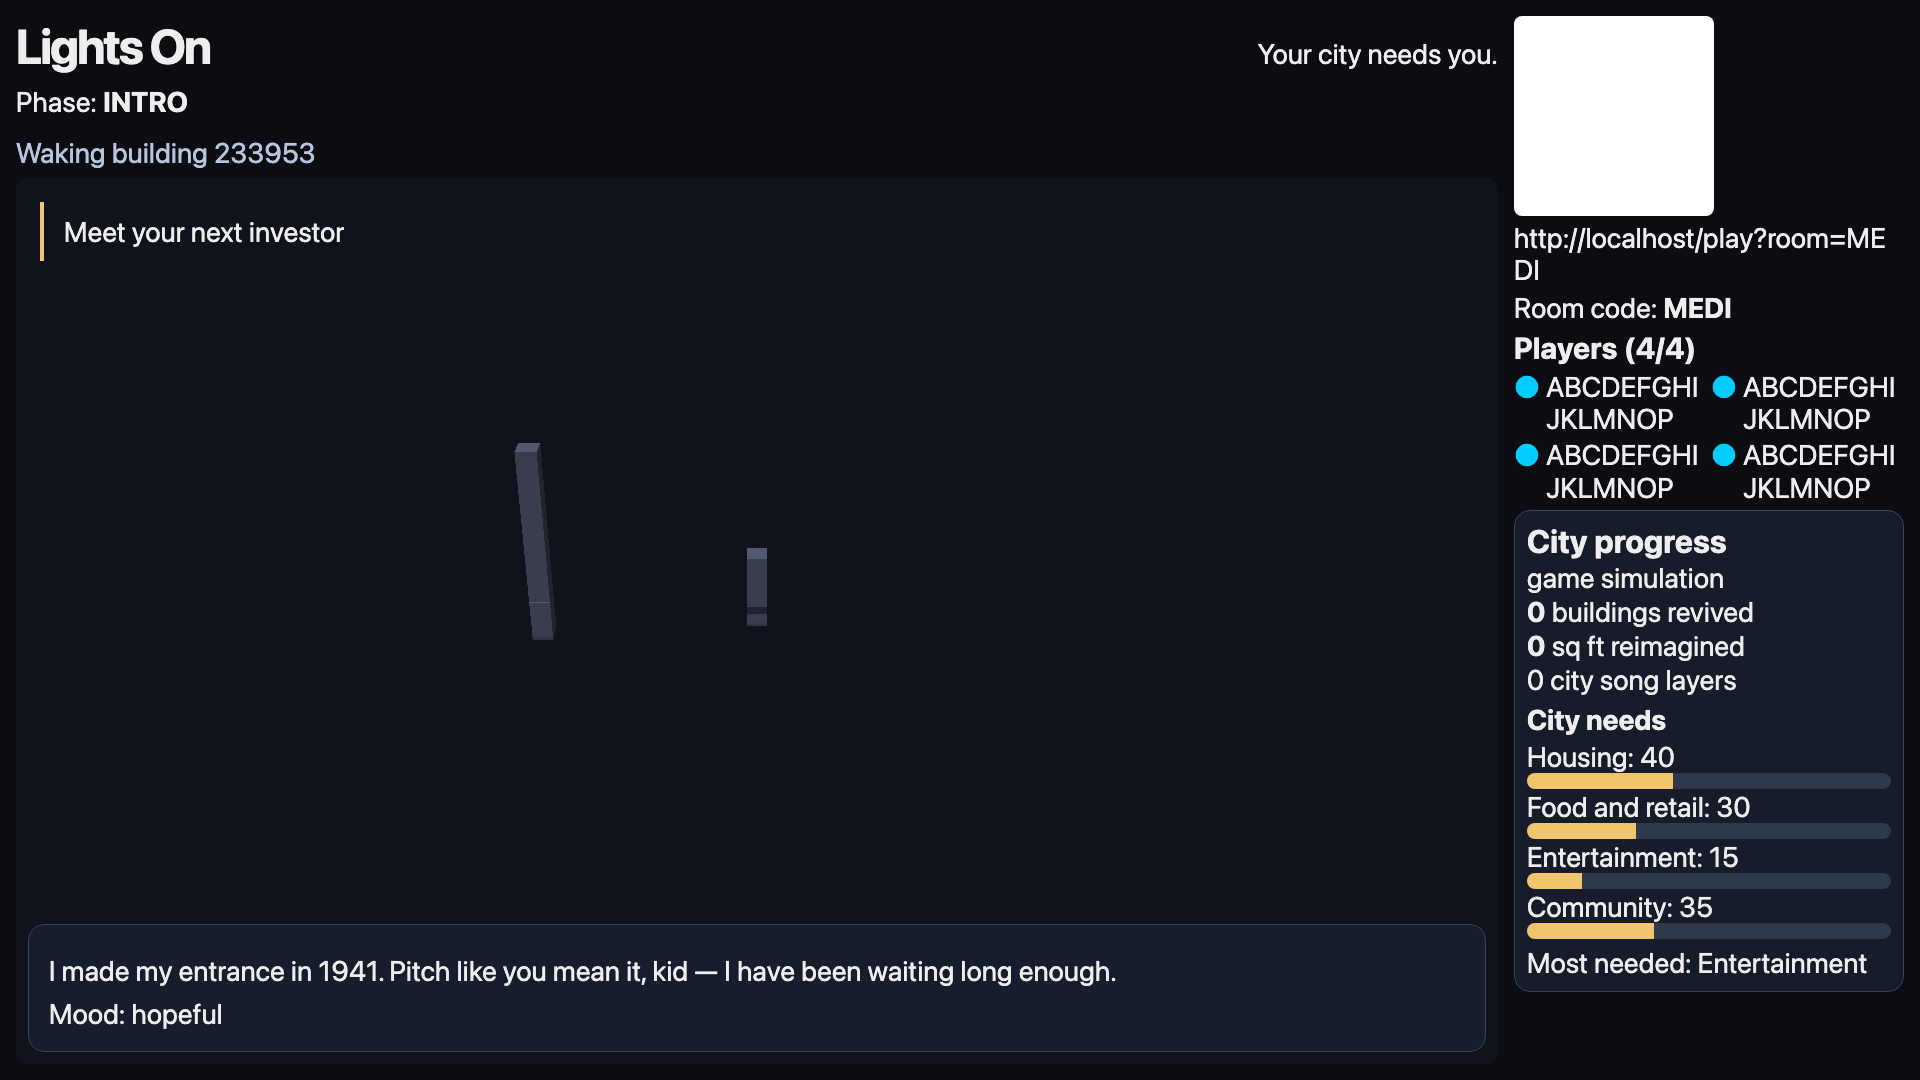
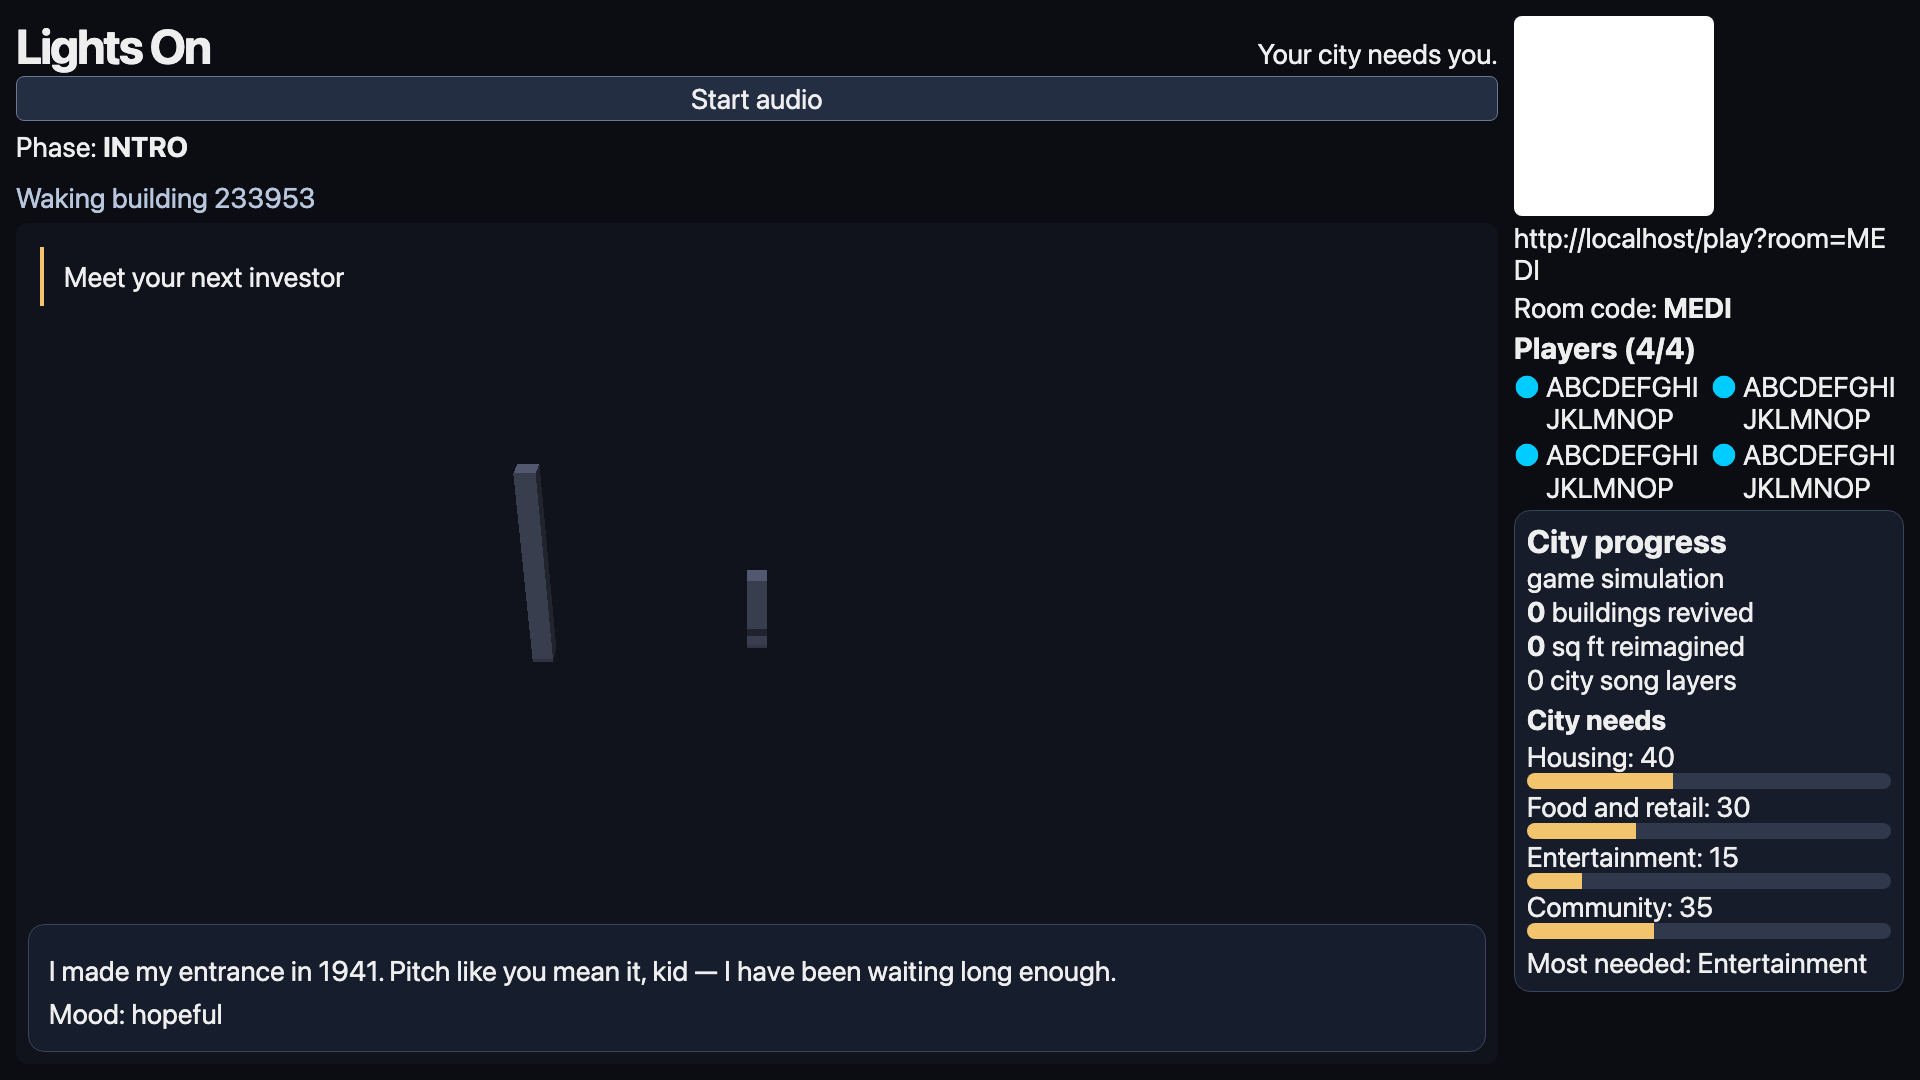
phase6: align signature motif with the first-floor fade

diff --git a/apps/web/src/screen/media.e2e.ts b/apps/web/src/screen/media.e2e.ts
@@ -57,8 +57,10 @@ for (const mode of ["kit", "fixtures"]) test(`media approach, instant light-up, 
       const map = window.__lightsOnMap!;
       const original = map.setPaintProperty;
       Object.assign(window, { firstMediaLight: 0 });
+      const fading = (value: unknown): boolean => Array.isArray(value) &&
+        ((value[0] === "literal" && typeof value[1] === "number" && value[1] > 0 && value[1] < 1) || value.some(fading));
       Object.defineProperty(map, "setPaintProperty", { value: (...args: [string, string, unknown]) => {
-        if (args[1] === "fill-extrusion-color" && JSON.stringify(args[2]).includes("#00ccff")) {
+        if (args[1] === "fill-extrusion-color" && JSON.stringify(args[2]).includes("#00ccff") && fading(args[2])) {
           const target = window;
           if (!target.firstMediaLight) target.firstMediaLight = Date.now();
         }
@@ -70,7 +72,9 @@ for (const mode of ["kit", "fixtures"]) test(`media approach, instant light-up, 
     server.emit({ type: "neighborhood_updated", needs: { housing: 40, food_retail: 30, entertainment: 45, community: 35 }, most_needed: "food_retail" });
     server.phase("REVIVED");
     await expect.poll(() => page.evaluate(() => window.firstMediaLight)).toBeGreaterThan(0);
-    expect(await page.evaluate(() => window.firstMediaLight) - at).toBeLessThan(300);
+    const latency = await page.evaluate(() => window.firstMediaLight) - at;
+    expect(latency).toBeGreaterThanOrEqual(200);
+    expect(latency).toBeLessThan(300);
     await expect(page.getByTestId("concept-card")).toContainText("Game concept, not a real renovation");
     await expect(page.getByRole("meter", { name: "Entertainment", exact: true })).toHaveAttribute("value", "45");
     await expect(page.getByTestId("city-meter")).toContainText("94,509");

diff --git a/apps/web/src/screen/music.ts b/apps/web/src/screen/music.ts
@@ -1,4 +1,5 @@
 import * as Tone from "tone";
+import { firstFloorAt } from "./effects";
 import { useEffect, useRef, useState } from "react";
 import type { Category } from "../lib/types";
 import type { Mood } from "../lib/protocol";
@@ -72,9 +73,11 @@ export class CityMusic {
     this.sync(TWO_BARS);
   }
   duck(speaking: boolean) { this.speaking = speaking; this.sync(0.15); }
-  signature(style: string) {
+  signature(style: string, atMs = Date.now()) {
     const motifs = [["D4", "F4", "A4"], ["A4", "F4", "D4"], ["D5", "C5", "A4"], ["F4", "E4", "D4"]];
-    const now = Tone.now();
+    // Tone.now() includes a look-ahead buffer; use the audio clock itself
+    // so that buffer does not push the motif past the first visible floor.
+    const now = Tone.immediate() + Math.max(0, atMs - Date.now()) / 1000;
     motifs[hash(style) % motifs.length]!.forEach((note, i) => this.motif?.triggerAttackRelease(note, "16n", now + i * 0.12));
   }
   private sync(seconds: number) {
@@ -195,8 +198,8 @@ export function useScreenAudio() {
       if (state.phase === "VERDICT" && state.verdict && state.verdict !== previous?.verdict) say(state.verdict.reason_line, null, state.mood);
       if (previous && state.revival && state.revival !== previous.revival) {
         cityMusic.revive(state.revival.category);
-        // The first floor starts immediately on revival; the motif shares that beat.
-        cityMusic.signature(`${state.buildingId}:${persona.voice_style}`);
+        // Share the visual flash lead-in and first-floor timestamp.
+        cityMusic.signature(`${state.buildingId}:${persona.voice_style}`, firstFloorAt(state.revival.at));
       }
     };
     sync(useGame.getState());

diff --git a/apps/web/src/screen/City.tsx b/apps/web/src/screen/City.tsx
@@ -9,7 +9,7 @@ import { getData, prefetchDossiers, type Building } from "../lib/buildings";
 import { useGame } from "../lib/store";
 import { HoverCard } from "./overlays/HoverCard";
 import { Sparks } from "./Sparks";
-import { FLASH_MS, INTRO_DIVE_MS, lightUpDuration } from "./effects";
+import { FLASH_MS, firstFloorAt, INTRO_DIVE_MS, lightUpDuration } from "./effects";
 
 declare global { interface Window { __lightsOnMap?: CityMap } }
 const CENTER: [number, number] = [-95.3650891, 29.7588018];
@@ -133,13 +133,13 @@ export function City() {
   useEffect(() => {
     const map = mapRef.current;
     if (!ready || !map?.getLayer("floors")) return;
-        map.setPaintProperty("floors", "fill-extrusion-color-transition", { duration: 0 });
+    map.setPaintProperty("floors", "fill-extrusion-color-transition", { duration: 0 });
     let frame = 0;
     const paint = () => {
       // Paint and scheduling must share one clock read so the final frame
       // cannot be dropped when the deadline is crossed during setPaintProperty.
       const now = Date.now();
-      map.setPaintProperty("floors", "fill-extrusion-color", floorColorExpression(revivedColors, revival ?? undefined, now));
+      map.setPaintProperty("floors", "fill-extrusion-color", floorColorExpression(revivedColors, revival ? { ...revival, at: firstFloorAt(revival.at) } : undefined, now));
       if (revival && now - revival.at < lightUpDuration(revival.floors)) frame = requestAnimationFrame(paint);
     };
     paint();

diff --git a/apps/web/src/screen/music-sync.test.ts b/apps/web/src/screen/music-sync.test.ts
@@ -1,0 +1,22 @@
+import { afterEach, expect, it, vi } from "vitest";
+import { CityMusic } from "./music";
+import { firstFloorAt } from "./effects";
+vi.mock("tone", () => ({ now: () => 10.1, immediate: () => 10 }));
+afterEach(() => { vi.useRealTimers(); });
+it("schedules the first signature note on the first floor after the flash", () => {
+  vi.useFakeTimers(); vi.setSystemTime(1000);
+  const music = new CityMusic();
+  const play = vi.fn();
+  Reflect.set(music, "motif", { triggerAttackRelease: play });
+  music.signature("", firstFloorAt(1000));
+  expect(play).toHaveBeenCalledTimes(3);
+  for (const [index, expected] of [10.2, 10.32, 10.44].entries()) expect(play.mock.calls[index]?.[2]).toBeCloseTo(expected);
+});
+it("starts a late signature immediately instead of scheduling in the past", () => {
+  vi.useFakeTimers(); vi.setSystemTime(1500);
+  const music = new CityMusic();
+  const play = vi.fn();
+  Reflect.set(music, "motif", { triggerAttackRelease: play });
+  music.signature("", firstFloorAt(1000));
+  expect(play.mock.calls[0]?.[2]).toBe(10);
+});

diff --git a/apps/web/src/screen/effects.test.ts b/apps/web/src/screen/effects.test.ts
@@ -1,10 +1,11 @@
 import { describe, expect, it } from "vitest";
-import { boundMediaPlan, INTRO_DIVE_MS, MEDIA_BEAT_MS, lightUpDuration, mediaAt, mediaPlan } from "./effects";
+import { boundMediaPlan, firstFloorAt, INTRO_DIVE_MS, MEDIA_BEAT_MS, lightUpDuration, mediaAt, mediaPlan } from "./effects";
 
 describe("payoff timing", () => {
   it("waits for the final staggered floor fade before the concept card", () => {
-    expect(lightUpDuration([8, 6, 7])).toBe(720);
+    expect(lightUpDuration([8, 6, 7])).toBe(920);
     expect(lightUpDuration([])).toBe(0);
+    expect(firstFloorAt(1000)).toBe(1200);
   });
   it("plays camera, ortho, obliques, tour then subtitles without owning the phase", () => {
     const beats = mediaPlan({ aerial: { ortho: "/media/233953/ortho.jpg", obliques: ["/media/233953/oblique-east.jpg"] }, matterport: [{ model_id: "Wtxv2Mp8uQE", caption: null }] }, "233953");

diff --git a/apps/web/src/screen/effects.ts b/apps/web/src/screen/effects.ts
@@ -31,6 +31,9 @@ export function boundMediaPlan(beats: MediaBeat[]): MediaBeat[] {
 export function mediaAt(beats: MediaBeat[], elapsed: number): MediaBeat | null {
   return elapsed < INTRO_DIVE_MS ? null : beats[Math.floor((elapsed - INTRO_DIVE_MS) / MEDIA_BEAT_MS)] ?? null;
 }
+export function firstFloorAt(revivedAt: number): number {
+  return revivedAt + FLASH_MS;
+}
 export function lightUpDuration(floors: number[]): number {
-  return floors.length ? FLOOR_FADE_MS + (floors.length - 1) * FLOOR_STAGGER_MS : 0;
+  return floors.length ? FLASH_MS + FLOOR_FADE_MS + (floors.length - 1) * FLOOR_STAGGER_MS : 0;
 }

diff --git a/apps/web/src/screen/evidence/README.md b/apps/web/src/screen/evidence/README.md
@@ -10,4 +10,8 @@ LO_E2E_API_PORT=19601 LO_E2E_WEB_PORT=16674 pnpm --filter @lights-on/web e2e --c
 
 The checks cover both data modes, zero through four players (including maximum-length names), intro cancellation on phase change, retained subtitles, first floor paint within 300 ms, final city values, concept attribution, error toasts, and a timed-out tour with softer auto-completion.
 
-Final validation: 456 Python tests passed with one existing live-provider skip, 45 web unit tests passed, messaging TypeScript passed, production build passed, and all 72 Playwright checks passed (three complete 24-test repetitions in 7.3 minutes). The intro budget regression reserves the tour within eight seconds even when all four obliques are supplied; at most three available aerial views play for 1.25 seconds each.
+Final validation after rebasing onto merged Phase 5 fixes and Phase 6 audio: 509 Python tests passed with one existing live-provider skip, 51 web unit tests passed, messaging TypeScript passed, production build passed, and all 90 Playwright checks passed (three complete 30-test repetitions in 12.7 minutes). The suite includes all six audio fallback round scenarios in addition to media checks.
+
+The 200 ms base flash now leads into both the first floor and its signature motif through one shared timestamp. The actual fade begins after 200 ms and before 300 ms in both data modes. Audio scheduling uses Tone.immediate() to avoid the extra look-ahead buffer from Tone.now(); unit regressions verify the first-note timestamp and late scheduling. Camera pull-back and the concept card wait for the flash plus the final staggered floor fade.
+
+The intro budget regression reserves the tour within eight seconds even when all four obliques are supplied; at most three available aerial views play for 1.25 seconds each.
